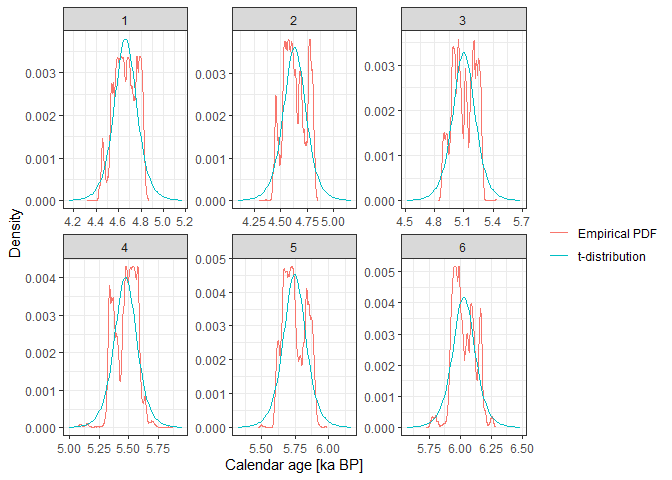
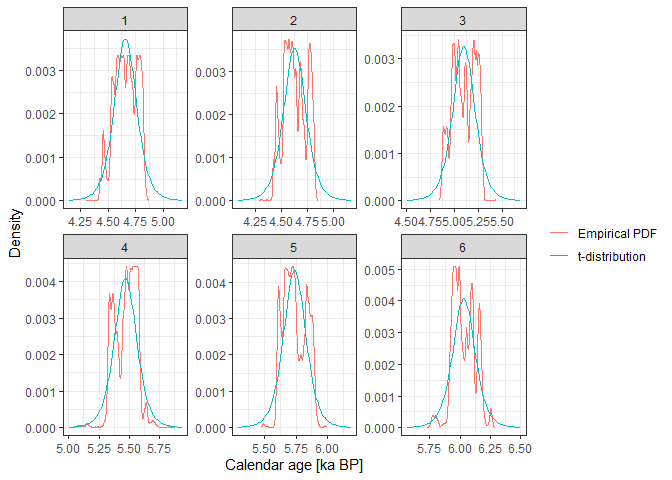
fix readme

diff --git a/README.md b/README.md
@@ -207,18 +207,10 @@ A sample of six dates are plotted here.
 
 ``` r
 i <- seq(1, 40, by = floor(40/6))[1:6]
-compare_14C_PDF(MSB2K$age[i], MSB2K$error[i], cal_curve = "intcal13")
-```
-
-![](readme_files/figure-gfm/unnamed-chunk-11-1.png)<!-- -->
-
-``` r
-
-i <- seq(1, 40, by = floor(40/6))[1:6]
 compare_14C_PDF(MSB2K$age[i], MSB2K$error[i], cal_curve = "intcal20")
 ```
 
-![](readme_files/figure-gfm/unnamed-chunk-11-2.png)<!-- -->
+![](readme_files/figure-gfm/unnamed-chunk-11-1.png)<!-- -->
 
 ### Varying the number and structure of the modelled sections.
 
